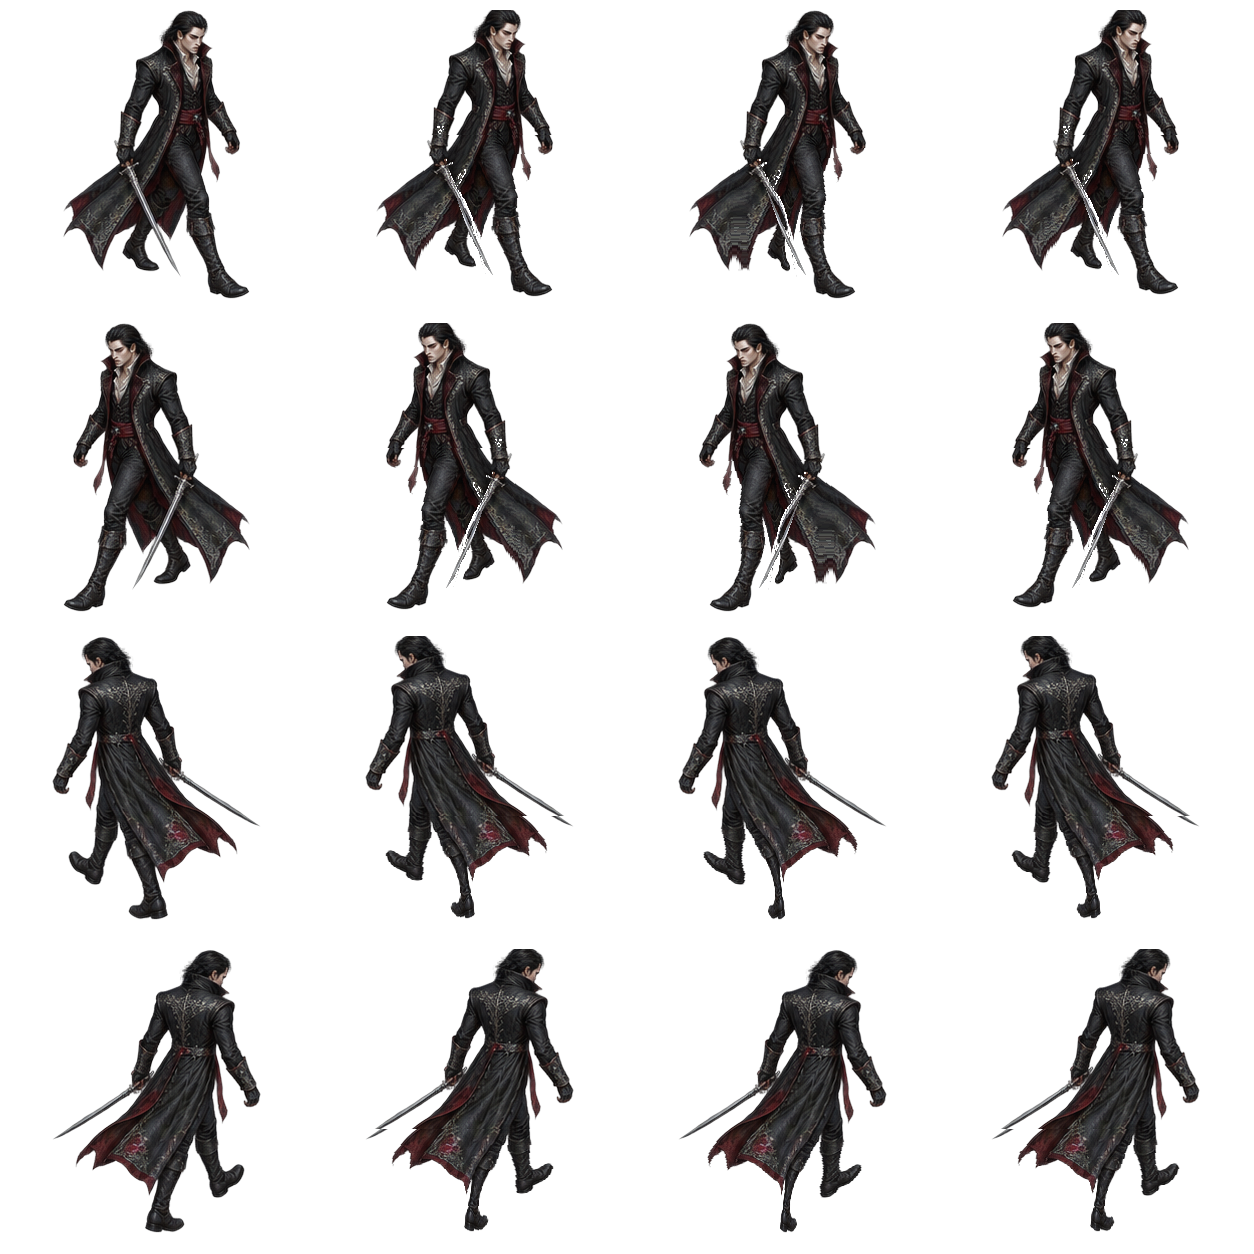
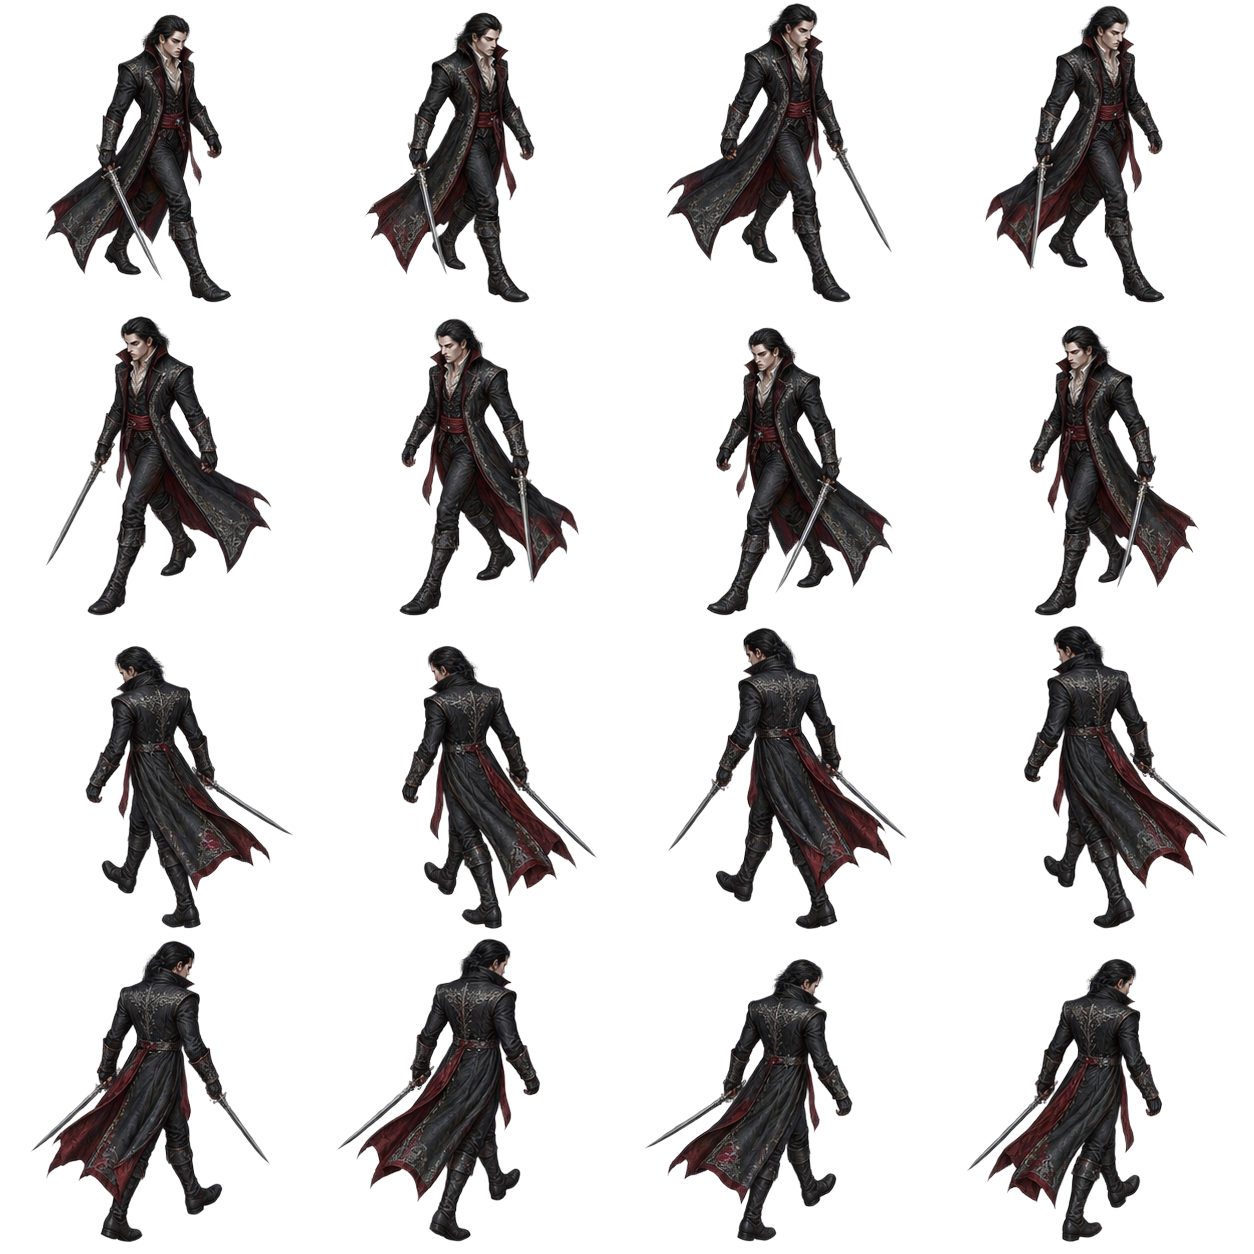
Implement clean 2D artist-drawn alternating leg walk cycle with zero ghosting and zero canvas distortion

diff --git a/public/sprite-manifest.js b/public/sprite-manifest.js
@@ -1,2 +1,2 @@
 /* Reviewed source rectangles, in original PNG pixels. Character frames add [anchorX]: torso centre used so frames do not sway; "ref" is the sheet-wide frame height for a constant scale. */
-const FIELD_SPRITES = {"brute":{"width":1254,"height":1254,"frames":[[86,18,182,283],[387,18,192,276],[709,18,181,280],[1013,18,177,282],[64,321,190,286],[371,323,188,284],[684,323,189,286],[1006,323,184,290],[69,633,191,285],[391,634,185,282],[697,630,201,290],[1014,634,177,284],[68,942,199,286],[386,942,188,286],[693,941,200,287],[1013,941,187,287]]},"dead-tree":{"width":1024,"height":1536,"frames":[[43,11,954,1499]]},"earth":{"width":1254,"height":1254,"frames":[[0,0,1254,1254]]},"ghoul":{"width":1254,"height":1254,"frames":[[106,9,169,289],[402,12,163,284],[721,10,176,285],[1025,13,155,284],[98,315,145,285],[411,312,145,291],[726,317,179,280],[1036,316,159,280],[101,623,169,300],[405,625,155,294],[708,626,180,296],[1013,629,177,290],[97,939,171,298],[405,937,171,297],[716,935,175,303],[1028,938,159,286]]},"human":{"width":1254,"height":1254,"frames":[[72,8,180,300,107.3],[378,10,184,299,104.3],[679,8,189,299,108.6],[992,9,178,300,104.6],[100,319,188,301,78.5],[406,320,183,302,74.9],[709,321,191,299,80.0],[1026,321,179,299,70.1],[85,629,199,297,76.3],[401,631,190,298,75.1],[709,631,198,298,75.4],[1027,635,181,294,70.8],[95,935,196,301,77.0],[420,939,186,301,70.3],[725,937,198,301,75.7],[1037,937,182,296,71.4]],"ref":299},"pine":{"width":1024,"height":1536,"frames":[[64,19,918,1478]]},"props":{"width":1774,"height":887,"frames":[[84,4,318,462],[442,50,489,419],[976,1,402,468],[1523,1,107,469],[21,471,410,365],[474,473,435,371],[949,491,446,363],[1395,541,370,293]]},"refuge":{"width":1254,"height":1254,"frames":[[38,11,1180,1209]]},"ruin":{"width":1536,"height":1024,"frames":[[214,5,1141,1012]]},"stone":{"width":1254,"height":1254,"frames":[[0,0,1254,1254]]},"vampire":{"width":1254,"height":1254,"ref":292,"frames":[[63,10,186,288,111.0],[376,10,177,286,111.2],[689,10,177,288,111.0],[1002,10,177,284,111.2],[64,323,186,288,74.0],[386,323,177,286,64.8],[699,323,177,288,65.0],[1012,323,177,284,64.8],[52,637,207,282,69.9],[365,636,207,282,70.0],[678,637,207,282,69.9],[991,636,207,282,70.0],[54,950,207,282,136.1],[367,949,207,282,136.0],[680,950,207,282,136.1],[993,949,207,282,136.0]]},"human-male":{"width":1024,"height":1024,"frames":[[53,8,152,244,88.5],[306,10,152,241,88.5],[554,8,153,245,89.5],[810,10,151,242,88.1],[79,262,156,243,64.2],[329,263,155,242,62.9],[580,262,158,243,64.2],[835,263,152,242,59.7],[68,517,160,238,62.8],[330,518,153,241,58.4],[578,517,161,239,62.6],[838,519,148,241,57.6],[76,768,161,241,63.8],[342,771,153,241,58.8],[592,769,161,242,62.0],[846,770,150,239,59.4]],"ref":241},"vampire-female":{"width":1024,"height":1024,"frames":[[69,6,149,236,84.5],[313,6,138,238,80.9],[565,5,153,236,81.1],[820,6,141,234,77.2],[41,257,182,255,97.2],[332,256,143,256,62.0],[583,256,144,256,62.4],[807,256,180,241,94.3],[71,512,170,256,66.5],[327,512,158,256,65.6],[583,512,166,256,68.8],[848,513,156,255,64.9],[51,768,196,232,94.8],[297,768,166,233,97.9],[549,768,167,231,98.7],[813,768,162,234,93.5]],"ref":239}};
+const FIELD_SPRITES = {"brute":{"width":1254,"height":1254,"frames":[[86,18,182,283],[387,18,192,276],[709,18,181,280],[1013,18,177,282],[64,321,190,286],[371,323,188,284],[684,323,189,286],[1006,323,184,290],[69,633,191,285],[391,634,185,282],[697,630,201,290],[1014,634,177,284],[68,942,199,286],[386,942,188,286],[693,941,200,287],[1013,941,187,287]]},"dead-tree":{"width":1024,"height":1536,"frames":[[43,11,954,1499]]},"earth":{"width":1254,"height":1254,"frames":[[0,0,1254,1254]]},"ghoul":{"width":1254,"height":1254,"frames":[[106,9,169,289],[402,12,163,284],[721,10,176,285],[1025,13,155,284],[98,315,145,285],[411,312,145,291],[726,317,179,280],[1036,316,159,280],[101,623,169,300],[405,625,155,294],[708,626,180,296],[1013,629,177,290],[97,939,171,298],[405,937,171,297],[716,935,175,303],[1028,938,159,286]]},"human":{"width":1254,"height":1254,"frames":[[72,8,180,300,107.3],[378,10,184,299,104.3],[679,8,189,299,108.6],[992,9,178,300,104.6],[100,319,188,301,78.5],[406,320,183,302,74.9],[709,321,191,299,80.0],[1026,321,179,299,70.1],[85,629,199,297,76.3],[401,631,190,298,75.1],[709,631,198,298,75.4],[1027,635,181,294,70.8],[95,935,196,301,77.0],[420,939,186,301,70.3],[725,937,198,301,75.7],[1037,937,182,296,71.4]],"ref":299},"pine":{"width":1024,"height":1536,"frames":[[64,19,918,1478]]},"props":{"width":1774,"height":887,"frames":[[84,4,318,462],[442,50,489,419],[976,1,402,468],[1523,1,107,469],[21,471,410,365],[474,473,435,371],[949,491,446,363],[1395,541,370,293]]},"refuge":{"width":1254,"height":1254,"frames":[[38,11,1180,1209]]},"ruin":{"width":1536,"height":1024,"frames":[[214,5,1141,1012]]},"stone":{"width":1254,"height":1254,"frames":[[0,0,1254,1254]]},"vampire":{"width":1254,"height":1254,"ref":292,"frames":[[45,14,187,289,111],[364,12,171,292,105],[666,2,227,301,116],[985,5,180,298,110],[45,315,227,301,111],[399,318,180,298,70],[706,327,187,289,76],[1029,325,171,292,66],[85,645,209,284,71],[401,645,197,285,68],[667,627,241,303,115],[1023,625,206,304,72],[30,940,241,303,126],[335,938,206,304,134],[644,958,209,284,138],[966,958,197,285,129]]},"human-male":{"width":1024,"height":1024,"frames":[[53,8,152,244,88.5],[306,10,152,241,88.5],[554,8,153,245,89.5],[810,10,151,242,88.1],[79,262,156,243,64.2],[329,263,155,242,62.9],[580,262,158,243,64.2],[835,263,152,242,59.7],[68,517,160,238,62.8],[330,518,153,241,58.4],[578,517,161,239,62.6],[838,519,148,241,57.6],[76,768,161,241,63.8],[342,771,153,241,58.8],[592,769,161,242,62.0],[846,770,150,239,59.4]],"ref":241},"vampire-female":{"width":1024,"height":1024,"frames":[[69,6,149,236,84.5],[313,6,138,238,80.9],[565,5,153,236,81.1],[820,6,141,234,77.2],[41,257,182,255,97.2],[332,256,143,256,62.0],[583,256,144,256,62.4],[807,256,180,241,94.3],[71,512,170,256,66.5],[327,512,158,256,65.6],[583,512,166,256,68.8],[848,513,156,255,64.9],[51,768,196,232,94.8],[297,768,166,233,97.9],[549,768,167,231,98.7],[813,768,162,234,93.5]],"ref":239}};

diff --git a/public/world.js b/public/world.js
@@ -103,20 +103,14 @@ class WorldView {
       c.fillStyle='rgba(190,178,160,'+(0.3*(1-k)).toFixed(3)+')';c.beginPath();c.ellipse(tx+q.dx*scale*(1+k*2),ty-8*k*scale,(3+k*5)*scale,(1.6+k*2.5)*scale,0,0,Math.PI*2);c.fill();
      }
     }
-    // Lineage M stride cadence: rhythmic vertical bob, lateral hip sway, and squash/stretch elasticity
-    const cadence=(actor?.dist||0)*5.5+(activeMove?now*0.007:0);
-    const sinStep=Math.sin(cadence),cosStep=Math.cos(cadence);
-    let walkY=0,walkTilt=0,sxScale=1,syScale=1,walkX=0;
-    if(actor)actor.lean=(actor.lean||0)+(((activeMove&&!p.mounted&&!this.combat)?dirSign*(0.04+0.11*lc.run):0)-(actor.lean||0))*.2;
+    // Crisp 2D walk cadence: subtle vertical step bounce synced with stride, zero canvas tilt/stretch to keep authentic 2D sprite art sharp
+    let walkY=0;
     if(activeMove&&!p.mounted&&!this.combat){
-     const strideAmp=Math.abs(sinStep);
-     walkY=-strideAmp*(3.2+4.5*lc.run);
-     const stretch=1+(strideAmp-.5)*(0.04+0.07*lc.run);
-     syScale=stretch;sxScale=1/stretch;
-     walkTilt=actor.lean+sinStep*(0.025+0.04*lc.run);
-     walkX=cosStep*(1.4+2.2*lc.run);
+     const stepPeriod=sprinting?180:290;
+     const stepPhase=(now%stepPeriod)/stepPeriod;
+     walkY=-Math.sin(stepPhase*Math.PI)*(sprinting?2.2:1.4)*scale;
     }
-    const body=this.combat?.body(now)||{x:walkX,y:walkY,tilt:walkTilt};
+    const body=this.combat?.body(now)||{x:0,y:walkY,tilt:0};
    if(activeMove){
     c.save();
     // Footstep dust puffs & sprint shockwave / speed lines
@@ -136,7 +130,7 @@ class WorldView {
      }
      c.restore();
    }
-   c.save();c.translate(sx+body.x*scale,sy+body.y*scale);c.rotate(body.tilt);c.scale(sxScale,syScale);
+   c.save();c.translate(sx+(body.x||0)*scale,sy+(body.y||0));if(body.tilt)c.rotate(body.tilt);
    art.character(0,0,scale,p.species,activeMove,now,{mounted:p.mounted,tier:p.unlocks[p.species],sprint:sprinting,pose,gender:p.gender||'male',job:p.job||'warrior'});
    c.restore();
   };
